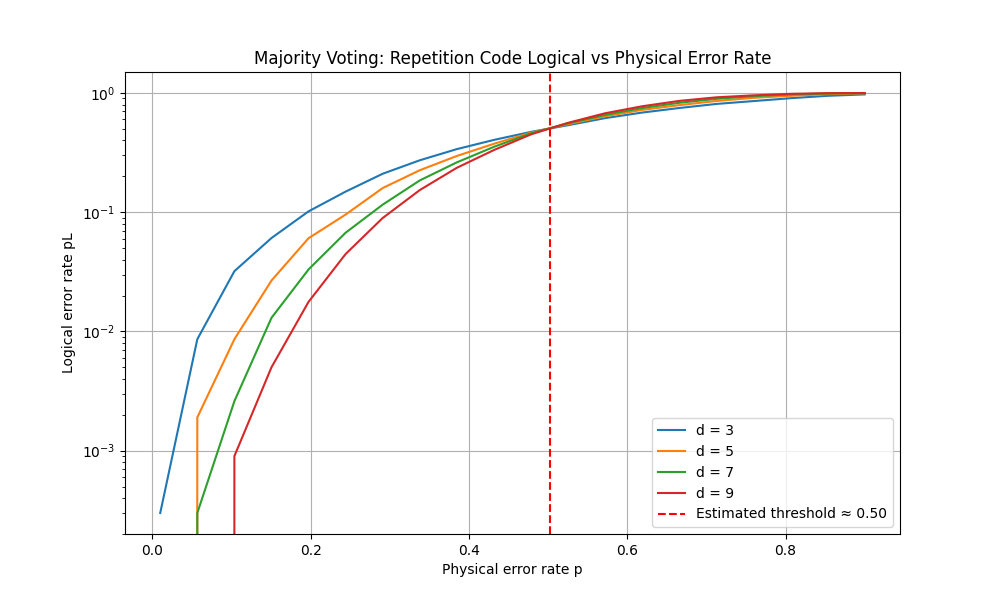
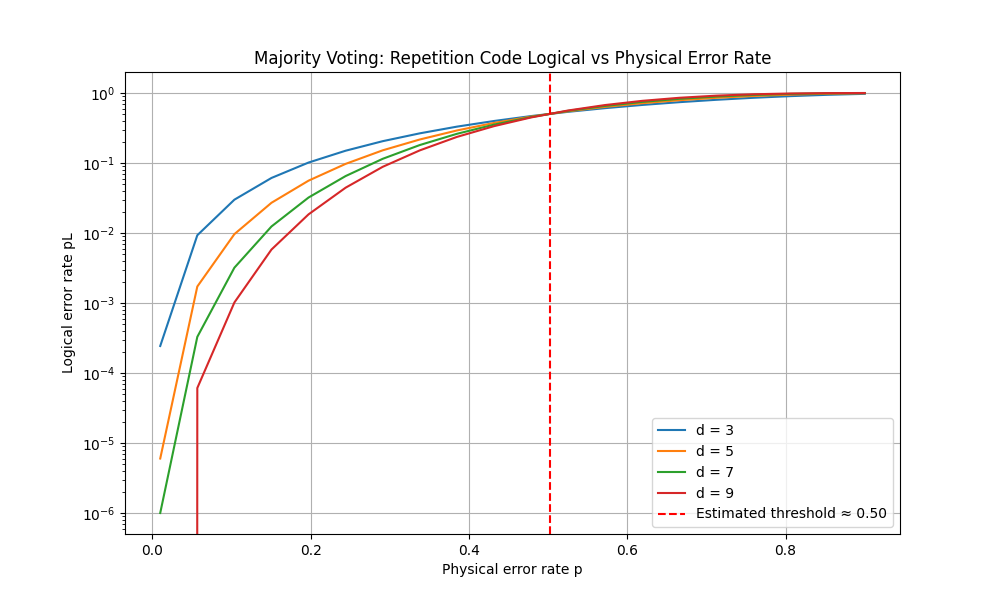
fix: Problem 1&2 fin (#7)
* ques 3

* TA corrections

* update Problem 1 images

* mwpm improve

* remove problem 3 stuff

* comments

* cleanup code

* threshold calc mistake

* 10**5 better threshold

diff --git a/simulation_code/problem_2.py b/simulation_code/problem_2.py
@@ -164,34 +164,25 @@ def build_decoding_graph(d, p, q):
             b = get_index(d, t, i)
             graph.add_edge(a, b, error_probability=q, fault_ids=set())
 
-    p_corner = p * (1 - q) + q * (1 - p)
-
     # Boundary edges:
     for t in range(d):
         for i in range(d - 1):
             idx = get_index(d, t, i)
-
-            is_corner = (t in [0, d - 1]) and (i in [0, d - 2])
-            is_edge_i = i in [0, d - 2]
+            is_edge = i in [0, d - 2]
 
             if i == 0:
                 fault_id = 0
             else:
                 fault_id = d - 1
 
-            if is_corner:
-                graph.add_boundary_edge(
-                    idx, error_probability=p_corner, fault_ids={fault_id}
-                )
-
-            elif is_edge_i:
+            if is_edge:
                 graph.add_boundary_edge(idx, error_probability=p, fault_ids={fault_id})
 
     return graph
 
 
 # Problem 2E
-def simulate_threshold_mwpm(n_runs=10**6):
+def simulate_threshold(n_runs=10**6):
     """
     Simulates the logical error rate of the repetition code using the minimum
     weight perfect matching (MWPM) algorithm for various physical error rates
@@ -218,10 +209,8 @@ def simulate_threshold_mwpm(n_runs=10**6):
             graph = build_decoding_graph(d, p, p)
             corrections = graph.decode_batch(defects)
             final_data = samples[:, -d:]
-            logical_outcomes = (
-                np.sum((final_data + corrections) % 2, axis=1) > (d - 1) / 2
-            )
-            pL = sum(logical_outcomes.astype(int)) / n_runs
+            logical_outcomes = np.sum((final_data ^ corrections), axis=1) % 2
+            pL = sum(logical_outcomes) / n_runs
             pL_list.append(pL)
         results[d] = pL_list
 
@@ -229,8 +218,8 @@ def simulate_threshold_mwpm(n_runs=10**6):
     threshold_p = None
     for i in range(len(probabilities) - 1):
         pL_prev_dist = -1
-        for d in distances[::-1]:
-            if i > 0 and pL_prev_dist > 0 and pL_prev_dist > results[d][i]:
+        for d in distances:
+            if i > 0 and pL_prev_dist > 0 and pL_prev_dist < results[d][i]:
                 threshold_p = (probabilities[i - 1] + probabilities[i]) / 2
                 break
             pL_prev_dist = results[d][i]
@@ -247,7 +236,7 @@ def simulate_threshold_mwpm(n_runs=10**6):
         x=threshold_p,
         color="red",
         linestyle="--",
-        label=f"Estimated threshold ≈ {threshold_p:.2f}",
+        label=f"Estimated threshold ≈ {threshold_p:.3f}",
     )
     plt.xlabel("Physical error rate p")
     plt.ylabel("Logical error rate pL")
@@ -255,6 +244,6 @@ def simulate_threshold_mwpm(n_runs=10**6):
     plt.legend()
     plt.grid(True)
     plt.yscale("log")
-    plt.savefig("images/problem_2/mwpm.png")
+    plt.savefig("images/problem_2/threshold_w_ancillas.png")
 
     return threshold_p

diff --git a/main.py b/main.py
@@ -1,17 +1,22 @@
 from simulation_code import problem_1, problem_2
 
+# ==================================================================
 # Problem 1
+# ==================================================================
 
-# # Majority Voting
-# threshold_mv, _, _ = problem_1.simulate_threshold_mv(n_runs=10**4)
-# print(f"Estimated threshold (Majority Voting): {threshold_mv}")
+# Majority Voting
+threshold_mv = problem_1.simulate_threshold_mv(n_runs=10**6)
+print(f"Estimated threshold (Majority Voting): {threshold_mv}")
 
-# # Minimum Weight Perfect Matching
-# threshold_mwpm = problem_1.simulate_threshold_mwpm(n_runs=10**4)
-# print(f"Estimated threshold (MWPM): {threshold_mwpm}")
+# Minimum Weight Perfect Matching
+threshold_mwpm = problem_1.simulate_threshold_mwpm(n_runs=10**6)
+print(f"Estimated threshold (MWPM): {threshold_mwpm}")
 
+# ==================================================================
 # Problem 2
+# ==================================================================
 
 # Minimum Weight Perfect Matching for Multiple Ancilla Measurements
-threshold_w_ancilla = problem_2.simulate_threshold_mwpm(n_runs=10**5)
+threshold_w_ancilla = problem_2.simulate_threshold(n_runs=10**6)
 print(f"Estimated threshold (with Ancillas): {threshold_w_ancilla}")
+

diff --git a/simulation_code/problem_1.py b/simulation_code/problem_1.py
@@ -133,7 +133,7 @@ def simulate_threshold_mv(n_runs=10**6):
     plt.yscale("log")
     plt.savefig("images/problem_1/majority_voting.png")
 
-    return threshold_p, probabilities, results
+    return threshold_p
 
 
 # Problem 1E
@@ -208,8 +208,8 @@ def simulate_threshold_mwpm(n_runs=10**6):
             samples = measurement_sampler(circuit, n_runs=n_runs)
             syndromes = extract_syndromes(samples)
             corrections = decoding_graph_mwpm(d, p, syndromes)
-            logical_outcomes = np.sum((samples + corrections) % 2, axis=1) > (d - 1) / 2
-            pL = sum(logical_outcomes.astype(int)) / n_runs
+            logical_outcomes = np.sum((samples ^ corrections), axis=1) % 2
+            pL = sum(logical_outcomes) / n_runs
             pL_list.append(pL)
         results[d] = pL_list
 
